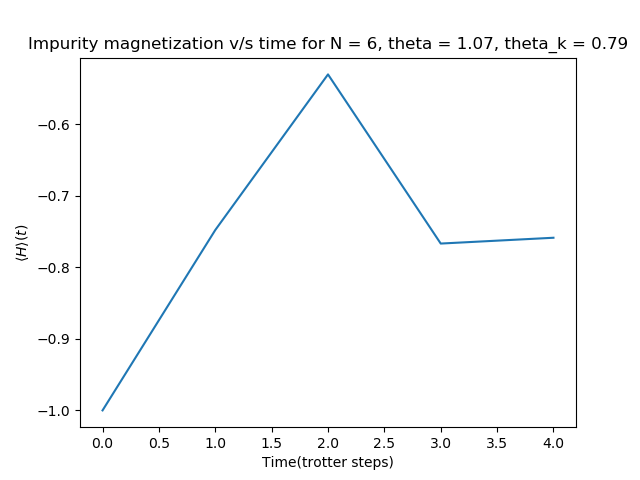
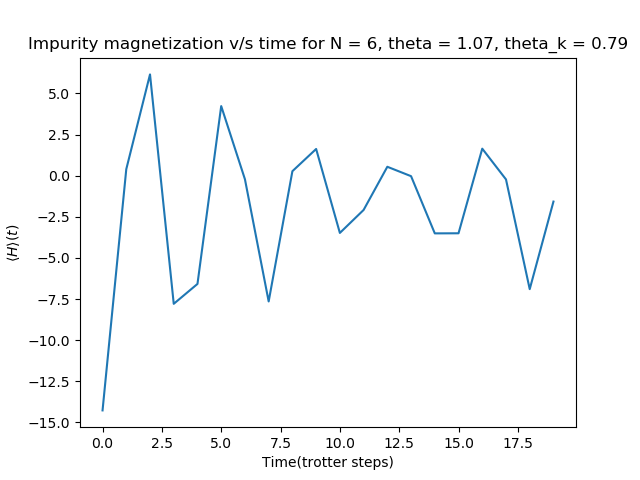
first test run done

diff --git a/scaled_codes/plotting.py b/scaled_codes/plotting.py
@@ -11,7 +11,7 @@ import matplotlib.pyplot as plt
 N_list = [6]
 theta_list = [1.07]  #pass the true values here
 thetak_list = [0.79]
-max_trotter_steps = 5
+max_trotter_steps = 20
 
 def plot_corr_space(pos,corr_super):   # For corr vs time
     vals = corr_super[pos-1]
@@ -62,7 +62,7 @@ for N in N_list:
             plt.savefig(f"scaled_codes/Sz plot, N = {N}")
             plt.close()
 
-            plt.plot(range(max_trotter_steps),sz_vals)
+            plt.plot(range(max_trotter_steps),h_vals)
             plt.xlabel("Time(trotter steps)")
             plt.ylabel(r"$\langle H \rangle (t)$")
             plt.title(f"Impurity magnetization v/s time for N = {N}, theta = {round(theta,2)}, theta_k = {round(theta_k,2)}")

diff --git a/scaled_codes/test_code.py b/scaled_codes/test_code.py
@@ -17,7 +17,7 @@ from qiskit.quantum_info.states.random import random_statevector
 #from qiskit.circuit.library import Initialize
 from qiskit.visualization import plot_bloch_multivector
 import numpy as np
-import matplotlib.pyplot as plt
+#import matplotlib.pyplot as plt
 
 from qiskit_aer.primitives import Sampler
 from qiskit_aer.primitives import Estimator
